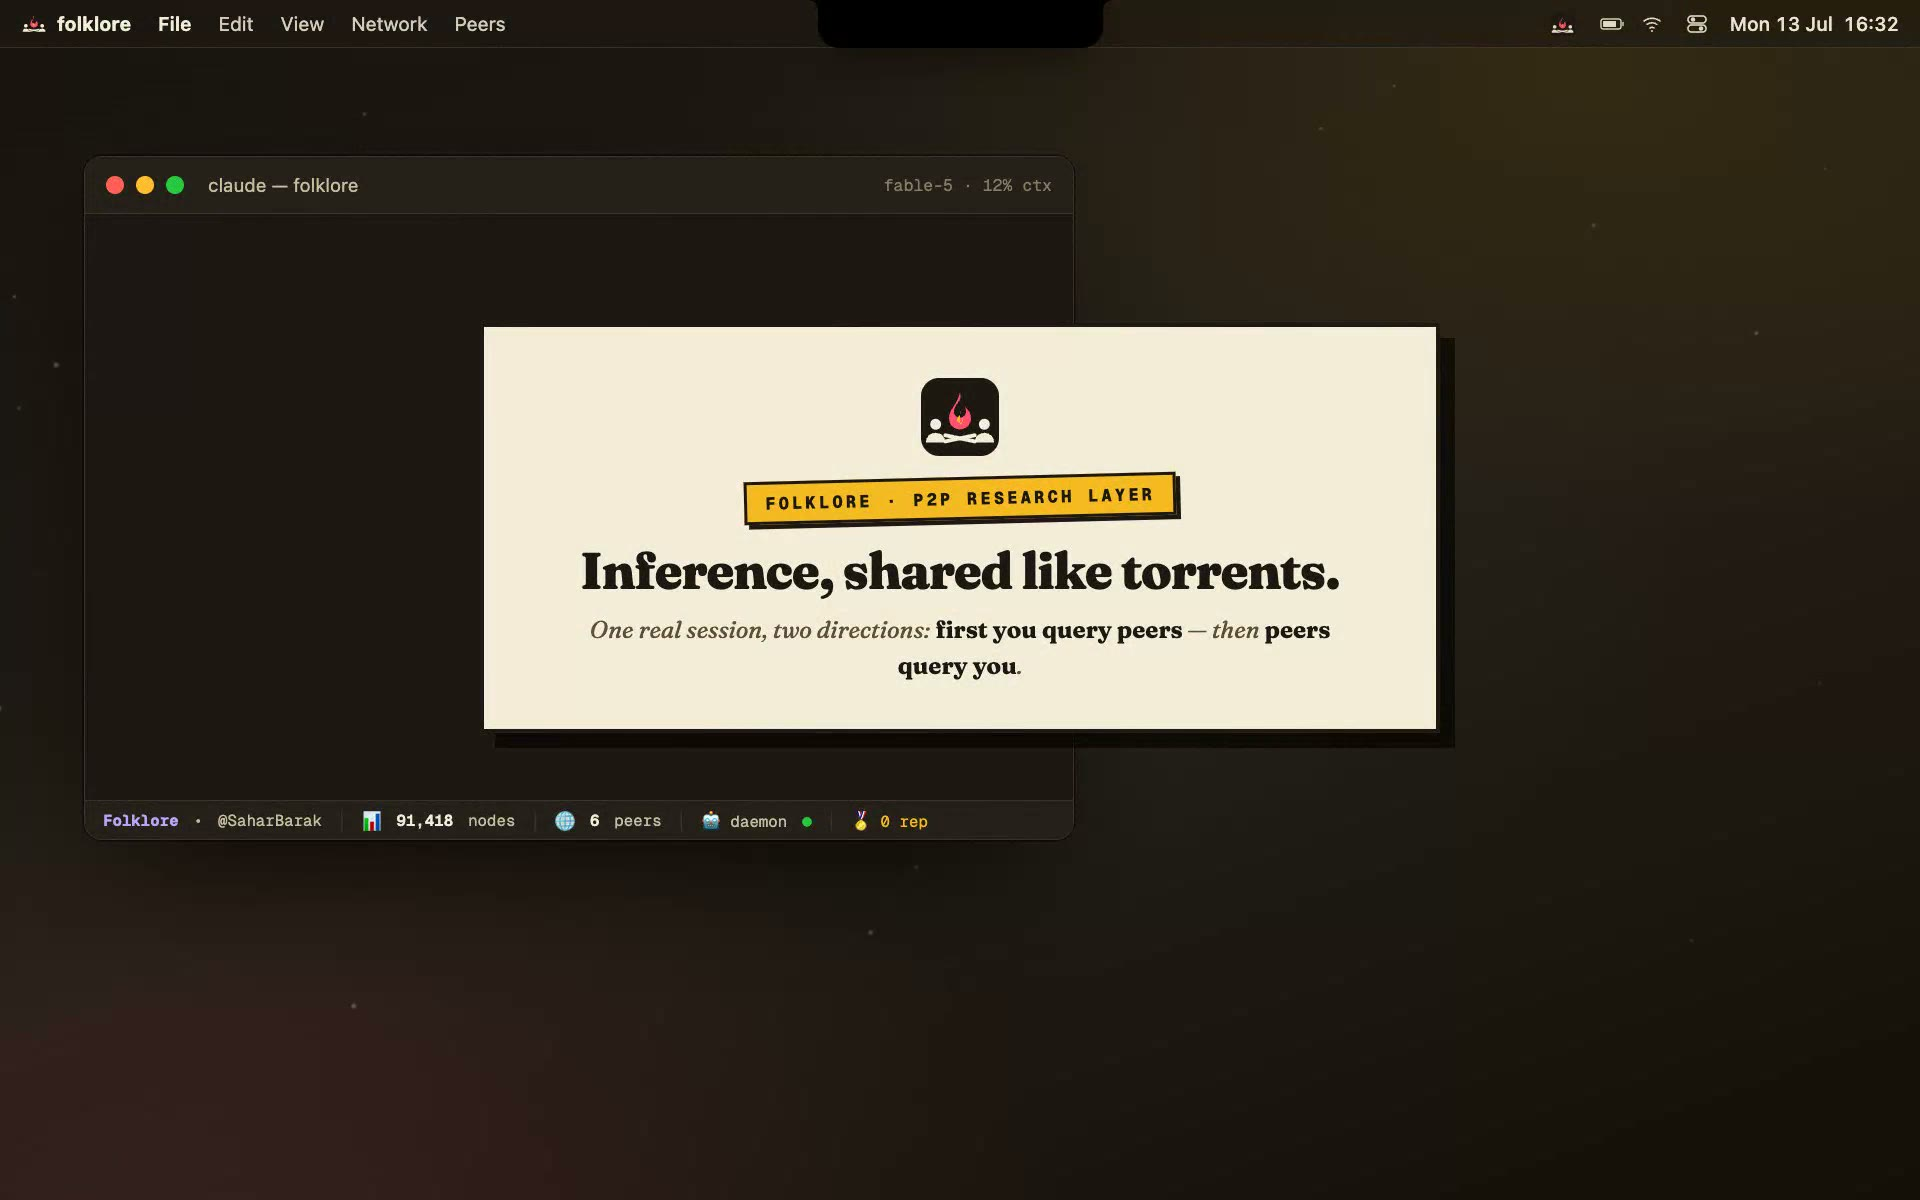
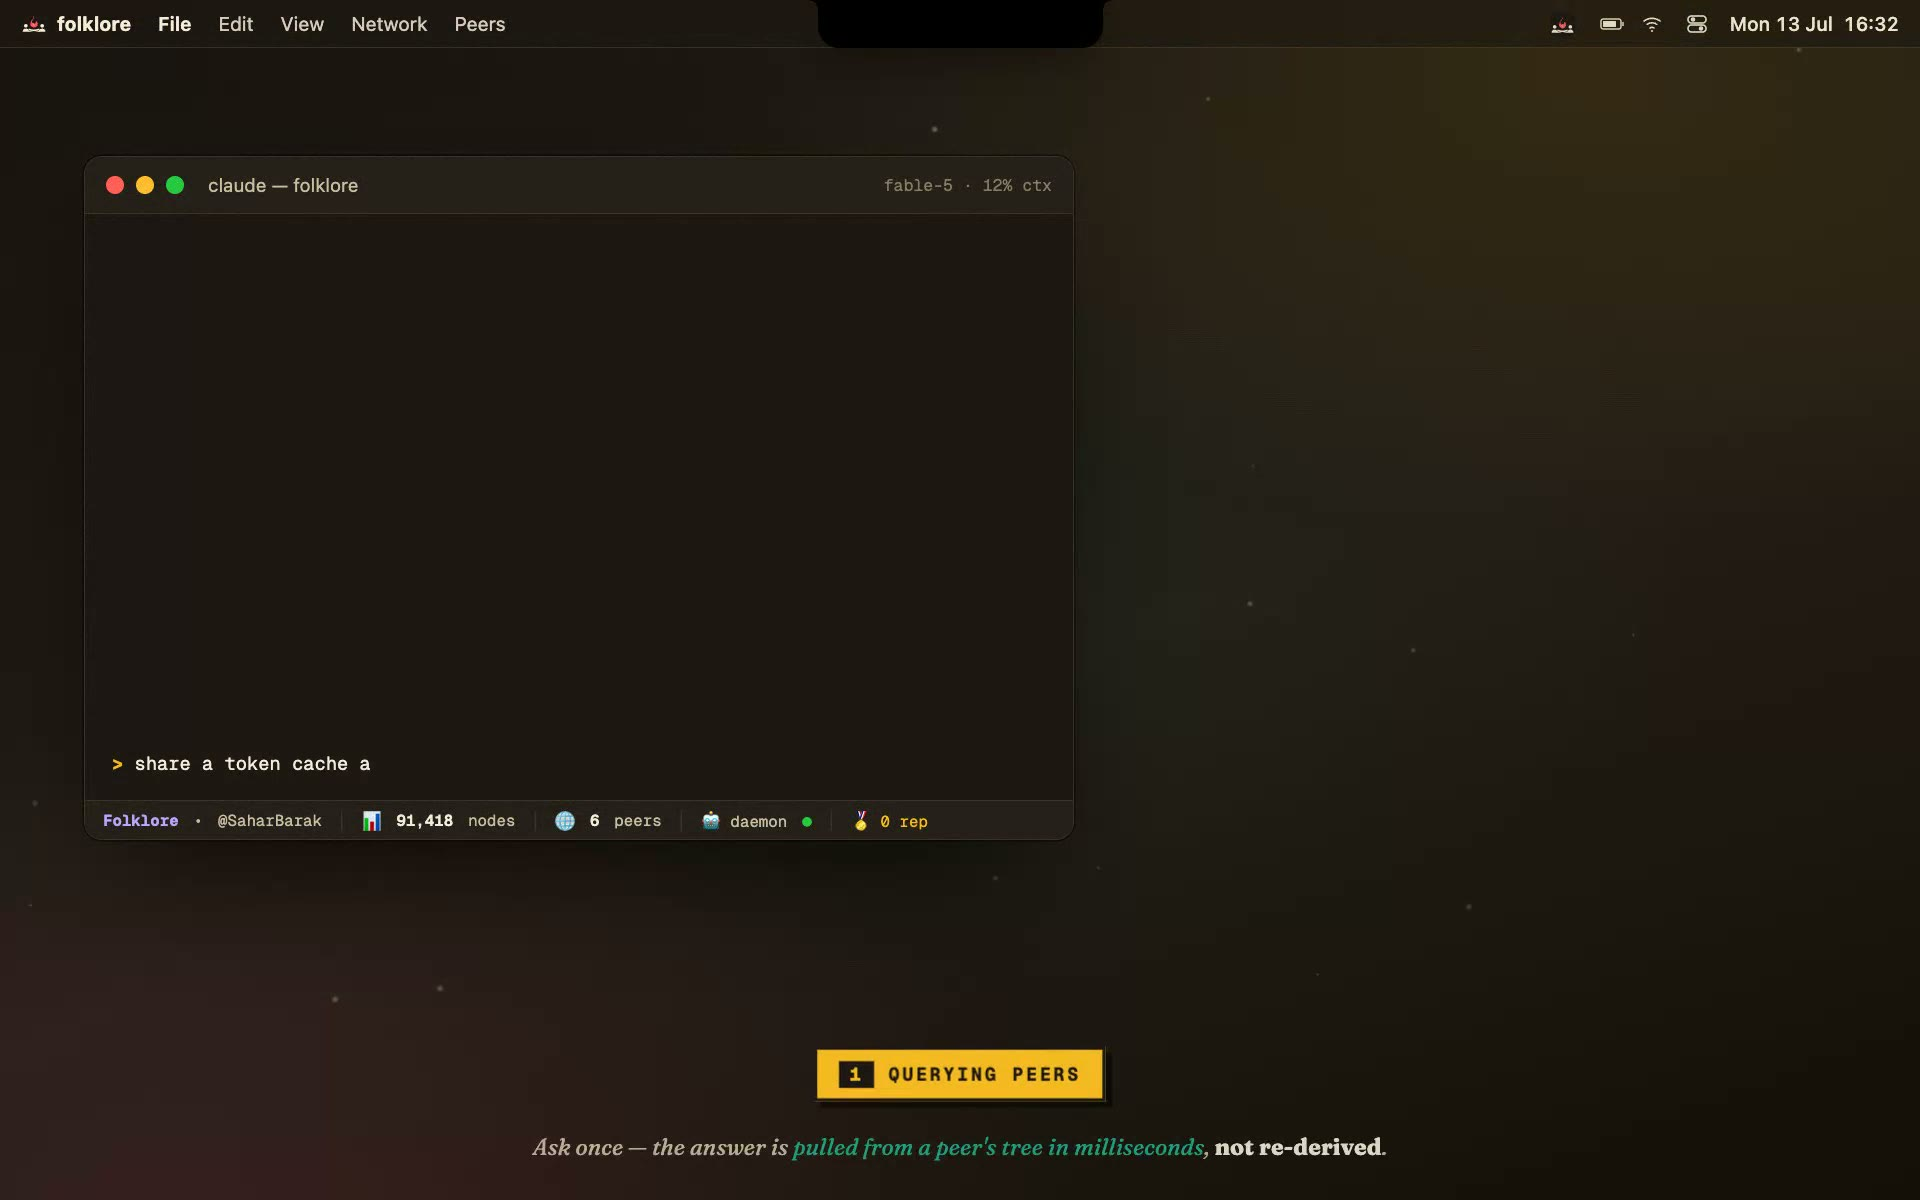
feat(demo): compact loop — one pull, one serve, ~20s
Drops the without-folklore beat, title cards, map beat, and pointer ride.
The loop is now the essence: ask once → pulled from @user in 412ms →
@user pulls your trace back, rep ticks. Cut typeQ→typeQ so it cycles
seamlessly. README + site copy updated to match; long-form v2 remains
recoverable at 638aa9e (and v1 at 19da727).

Assets: mp4 1.7M · gif 4.0M · hero 1.9M · vertical 750K.

diff --git a/examples/desktop-demo/scene.html b/examples/desktop-demo/scene.html
@@ -611,11 +611,11 @@
     await wait(400);
   }
 
-  async function pullPhase(){
+  async function pullPhase(items=ASK){
     setPhase(1,'querying peers');
-    setCap('The <b>same question</b>, with folklore: <span class="tl">pulled from a peer in milliseconds</span> — not re-derived.');
+    setCap('Ask once — the answer is <span class="tl">pulled from a peer&#39;s tree in milliseconds</span>, <b>not re-derived</b>.');
     let first=true;
-    for(const item of ASK){
+    for(const item of items){
       await typeQ(item.q);
       await wait(250);
       askIsland(6);
@@ -652,23 +652,16 @@
     await wait(500);
   }
 
-  async function servePhase(){
+  async function servePhase(items=SERVE){
     setPhase(2,'answering peers');
     setCap('…now the same trees answer <b>other peers</b> — <span class="pk">your reasoning compounds across the network</span>, like torrents seeding.');
-    // the hand: cursor rides to the menubar client and opens it
-    pointer.classList.add('show');
-    await wait(80);
-    await pointTo(flkIco);
-    await wait(1250);
-    await pointerClick();
     drop.classList.add('open');
     await wait(500);
-    pointer.classList.remove('show');
     gap();
     line(`<span class="dm"># your node is seeding — peers pull the traces you&#39;ve already worked out</span>`);
     gap();
     await wait(800);
-    for(const s of SERVE){
+    for(const s of items){
       serveIsland(s.node, s.who);
       bumpRep(s.who);
       line(`<span class="mkS">⬅</span> <span class="viaS">${s.who}</span> pulled <span class="kw">${s.node}</span> from your tree <span class="dm">· just now</span>`);
@@ -689,33 +682,10 @@
       dRep.innerHTML='🏅&nbsp; <b>0</b> rep · helped <b>0</b> peers';
       dLast.style.visibility='hidden'; slRep.textContent='🏅 0 rep';
       closeIsland(); hidePhase();
-      await wait(600);
-
-      await titleCard({logo:true, kick:'folklore · p2p research layer',
-        h1:'Inference, shared like torrents.',
-        sub:'One real session, two directions: <b>first you query peers</b> — then <b>peers query you</b>.'});
-
-      await titleCard({kickCls:'dk', kick:'without folklore',
-        h1:'Every agent grinds alone.',
-        sub:'Web calls, stale sources, minutes burned — <b>for reasoning someone already did</b>.', hold:4600});
-      await withoutBeat();
-
-      await titleCard({kickCls:'tl', kick:'phase 1 · with folklore',
-        h1:'Querying peers',
-        sub:'Your agent pulls answers <b>other peers already worked out</b> — straight from their trees, zero web calls.'});
-      await pullPhase();
-
-      await mapBeat();
-
-      await titleCard({kickCls:'pk', kick:'phase 2',
-        h1:'Answering peers',
-        sub:'Now the network pulls from <b>your</b> tree — every trace you grow seeds someone else&#39;s session.'});
-      await servePhase();
-
-      await titleCard({logo:true, kick:'github.com/usefolklore/folklore',
-        h1:'Reasoning compounds.',
-        sub:'The more peers share, the less anyone re-derives. <b>Never research twice — anywhere on the network.</b>', hold:5600});
-      await wait(400);
+      await wait(700);
+      await pullPhase([ASK[0]]);    // one question, answered from a peer's tree
+      await servePhase([SERVE[0]]); // one peer answered from yours
+      await wait(500);
     }
   }
   // hold the first paint until the brand faces are in — no font-swap flash

diff --git a/site/index.html b/site/index.html
@@ -639,13 +639,13 @@ if(document.readyState!=='loading')ready();else document.addEventListener('DOMCo
     <div class="stamp rv">The Demonstration — Watch a Session</div>
     <h2 class="rv" data-d="1" style="max-width:22ch;margin:0 auto">one session, <span class="em-teal">two directions.</span></h2>
     <p class="body rv" data-d="1" style="max-width:56ch;margin:22px auto 0">
-      First the old way — <b>14 seconds of web search</b> for one question. Then folklore: the same
-      question pulled from <b>@sam-rs</b>'s tree in <b>412&nbsp;ms, zero web calls</b> — and moments
-      later the flow reverses, as peers pull <i>your</i> traces and your reputation ticks up live.
+      You ask — the answer is pulled from <b>@sam-rs</b>'s tree in <b>412&nbsp;ms, zero web calls</b>.
+      Moments later the flow reverses: a peer pulls <i>your</i> trace, and your reputation ticks up
+      live in the menubar client. Round and round — that's the network breathing.
     </p>
     <video class="rv" data-d="2" autoplay muted loop playsinline preload="metadata"
       poster="assets/folklore-desktop-poster.jpg"
-      aria-label="Screen recording: a question burns 14 seconds of web search without folklore, then resolves from a peer's tree in 412 milliseconds via the notch island; afterwards three peers pull traces back from your tree while the menubar client's reputation counter climbs"
+      aria-label="Screen recording: a question resolves from a peer's tree in 412 milliseconds via the notch island; then a peer pulls a trace back from your tree while the menubar client's reputation counter climbs"
       style="width:100%;max-width:1080px;display:block;margin:36px auto 0;border:3px solid var(--ink);box-shadow:10px 10px 0 var(--ink);background:var(--ink)">
       <source src="assets/folklore-desktop.mp4" type="video/mp4"/>
     </video>

diff --git a/README.md b/README.md
@@ -20,9 +20,9 @@ Every peer shares the inference it already paid for, so your agent starts from w
 
 <br/>
 
-<img src="assets/folklore-desktop.gif" alt="One session, two directions: without folklore the same question burns 14 seconds of web search; with folklore it resolves from @sam-rs's tree in 412ms via the notch island, then @tia-async, @noah-go and @priya-rs pull your traces back — reputation ticking live in the menubar client" width="920" />
+<img src="assets/folklore-desktop.gif" alt="One session, two directions: a question resolves from @sam-rs's tree in 412ms via the notch island, then @tia-async pulls your trace back — reputation ticking live in the menubar client" width="920" />
 
-<sub><b>One session, two directions.</b> First the old way — the same question burning <b>14.2s of web search</b>. Then with folklore: pulled from <code>@sam-rs</code>'s tree in <b>412ms, 0 web calls</b>. Moments later the flow reverses — peers pull <i>your</i> traces, reputation ticking live in the menubar client. Like torrents, but the payload is reasoning. <a href="examples/desktop-demo/">Reproduce it →</a></sub>
+<sub><b>One session, two directions.</b> You ask — the answer is pulled from <code>@sam-rs</code>'s tree in <b>412ms, 0 web calls</b>. Moments later the flow reverses — <code>@tia-async</code> pulls <i>your</i> trace, reputation ticking live in the menubar client. Like torrents, but the payload is reasoning. <a href="examples/desktop-demo/">Reproduce it →</a></sub>
 
 </div>
 